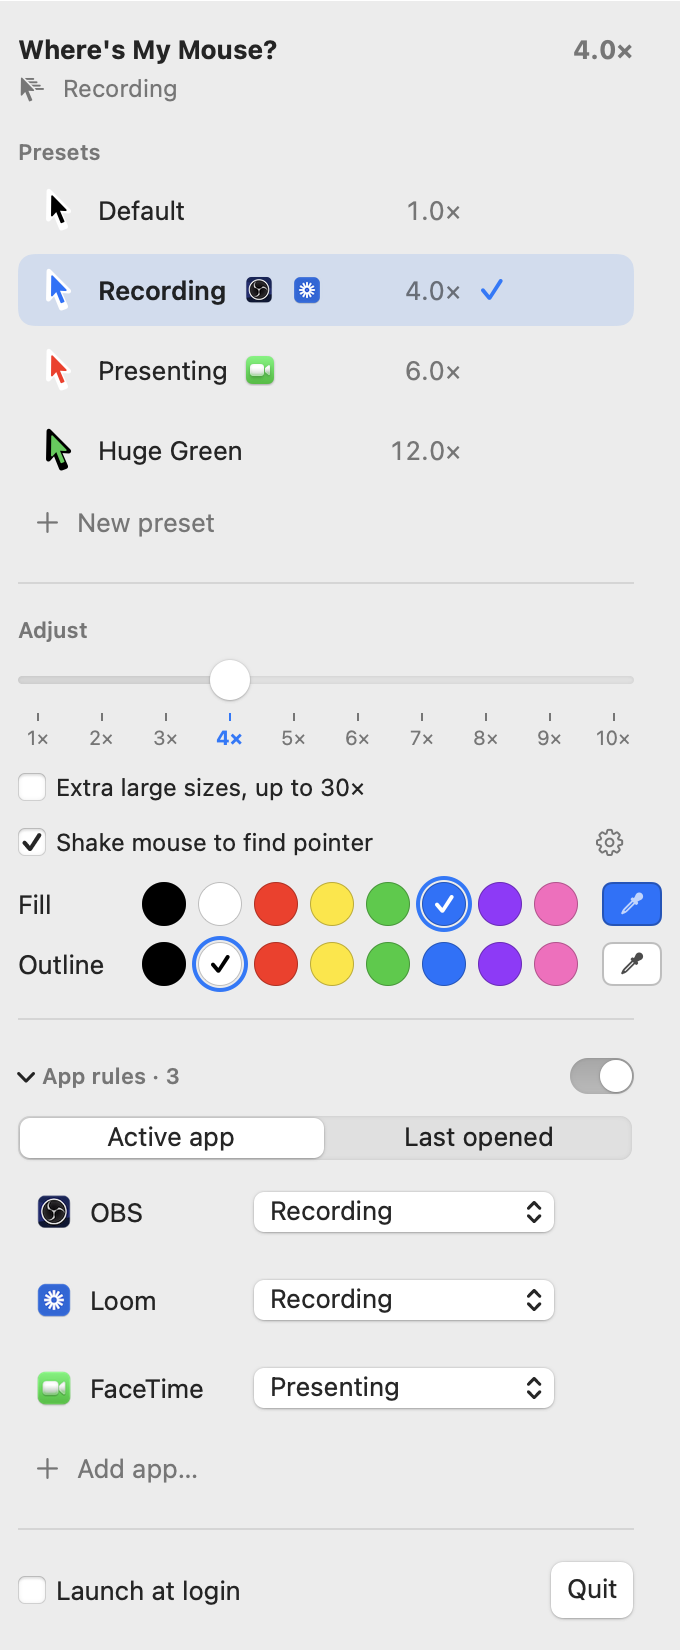
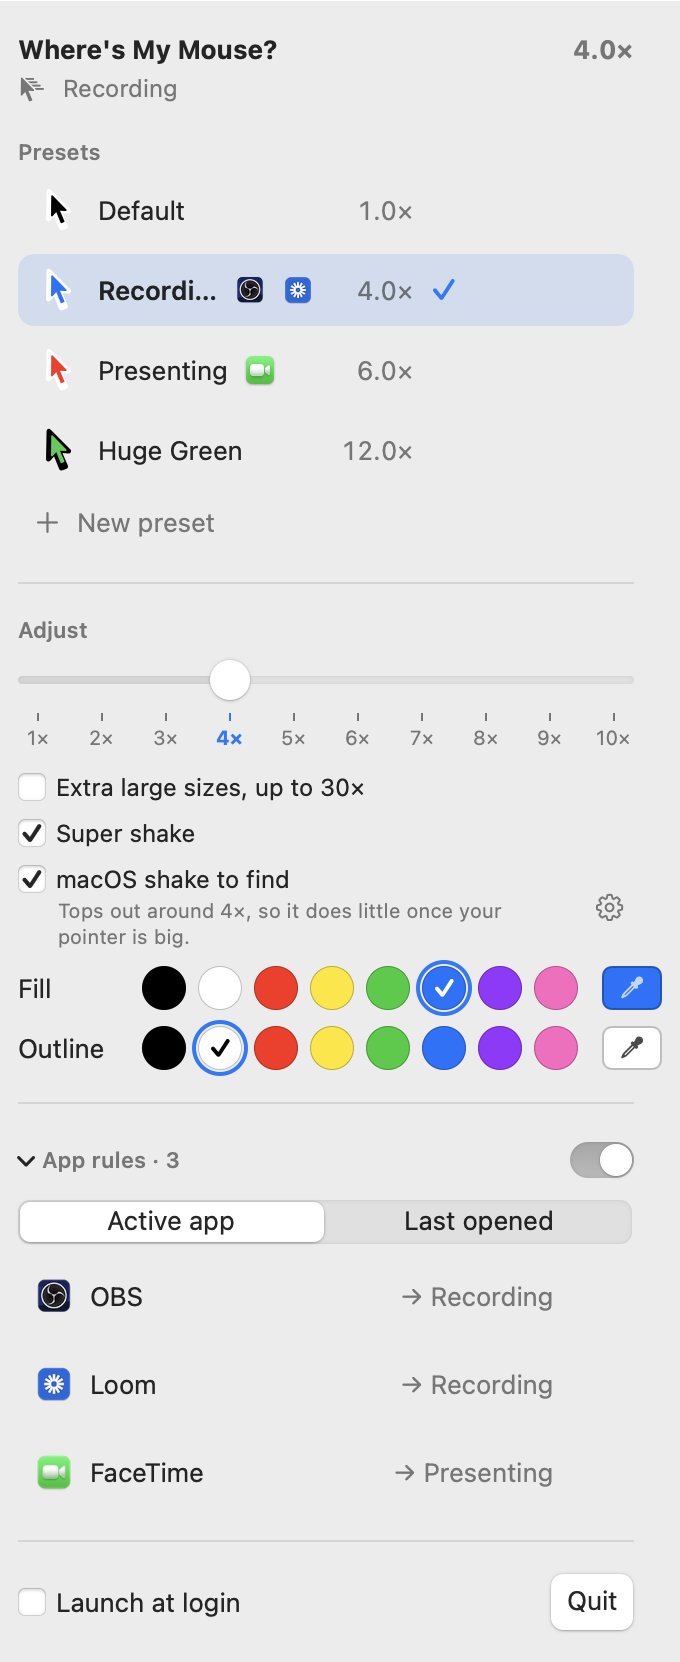
Super shake: shake the mouse to briefly triple the pointer, at any size
- Polls the pointer (no permissions), 4 quick reversals = a shake
- Grows to 3x (10x-30x), holds while shaking, eases back; never saved
- Hint on macOS shake: it tops out around 4x
- Site and README: Super shake card, 'macOS's shake tops out at 4x'

diff --git a/Sources/SuperShake.swift b/Sources/SuperShake.swift
@@ -1,0 +1,137 @@
+import AppKit
+
+/// Watches the mouse for a quick side-to-side shake. Polls the pointer position, so it
+/// needs no permissions and sees movement over every app.
+final class ShakeDetector {
+    private var timer: Timer?
+    private var samples: [(time: TimeInterval, x: CGFloat)] = []
+    private var lastShake: TimeInterval = 0
+    private let onShake: () -> Void
+
+    // A shake: at least 4 direction changes within 0.6s, each leg at least 30pt.
+    private let window: TimeInterval = 0.6
+    private let minReversals = 4
+    private let minLeg: CGFloat = 30
+
+    init(onShake: @escaping () -> Void) {
+        self.onShake = onShake
+    }
+
+    func start() {
+        guard timer == nil else { return }
+        let timer = Timer(timeInterval: 1.0 / 60, repeats: true) { [weak self] _ in self?.sample() }
+        RunLoop.main.add(timer, forMode: .common)
+        self.timer = timer
+    }
+
+    func stop() {
+        timer?.invalidate()
+        timer = nil
+        samples.removeAll()
+    }
+
+    private func sample() {
+        let now = ProcessInfo.processInfo.systemUptime
+        samples.append((now, NSEvent.mouseLocation.x))
+        samples.removeAll { now - $0.time > window }
+        guard samples.count > 4 else { return }
+
+        // Collapse the path into legs between direction changes and count the long ones.
+        var reversals = 0
+        var legStart = samples[0].x
+        var direction: CGFloat = 0
+        for i in 1..<samples.count {
+            let dx = samples[i].x - samples[i - 1].x
+            guard abs(dx) > 0.5 else { continue }
+            let d: CGFloat = dx > 0 ? 1 : -1
+            if direction != 0, d != direction {
+                if abs(samples[i - 1].x - legStart) >= minLeg { reversals += 1 }
+                legStart = samples[i - 1].x
+            }
+            direction = d
+        }
+        if reversals >= minReversals {
+            lastShake = now
+            samples.removeAll()
+            onShake()
+        }
+    }
+}
+
+/// Super shake: briefly grows the pointer to 3× its size (at least 10×, at most 30×),
+/// holds while the shaking continues, then eases back. Never saves the boosted size.
+final class SuperShake {
+    private let detector: ShakeDetector
+    private var animation: Timer?
+    private var baseSize: Double = 1
+    private var peak: Double = 1
+    private var phaseStart: TimeInterval = 0
+    private var holdUntil: TimeInterval = 0
+    private(set) var isBoosting = false
+
+    private let growTime = 0.12
+    private let holdTime = 0.9
+    private let shrinkTime = 0.4
+
+    init(currentSize: @escaping () -> Double) {
+        var boost: (() -> Void)?
+        detector = ShakeDetector { boost?() }
+        boost = { [weak self] in self?.boost(from: currentSize()) }
+    }
+
+    func setEnabled(_ on: Bool) {
+        if on { detector.start() } else { detector.stop(); finish() }
+    }
+
+    private func boost(from size: Double) {
+        let now = ProcessInfo.processInfo.systemUptime
+        if isBoosting {
+            holdUntil = now + holdTime // still shaking: keep it big
+            return
+        }
+        isBoosting = true
+        baseSize = size
+        peak = min(CursorController.extendedMaxSize, max(size * 3, 10))
+        phaseStart = now
+        holdUntil = now + growTime + holdTime
+        let timer = Timer(timeInterval: 1.0 / 60, repeats: true) { [weak self] _ in self?.step() }
+        RunLoop.main.add(timer, forMode: .common)
+        animation = timer
+    }
+
+    private func step() {
+        let now = ProcessInfo.processInfo.systemUptime
+        let size: Double
+        if now < phaseStart + growTime {
+            size = baseSize + (peak - baseSize) * ease((now - phaseStart) / growTime)
+        } else if now < holdUntil {
+            size = peak
+        } else if now < holdUntil + shrinkTime {
+            size = peak + (baseSize - peak) * ease((now - holdUntil) / shrinkTime)
+        } else {
+            finish()
+            return
+        }
+        CursorController.setSize(size, persist: false)
+    }
+
+    /// Stops without restoring, e.g. when the user picks a new size mid-boost.
+    func cancel() {
+        animation?.invalidate()
+        animation = nil
+        isBoosting = false
+    }
+
+    private func finish() {
+        animation?.invalidate()
+        animation = nil
+        if isBoosting { CursorController.setSize(baseSize, persist: false) }
+        isBoosting = false
+    }
+
+    /// Smooth start and end (ease in-out cubic).
+    private func ease(_ t: Double) -> Double {
+        let t = min(max(t, 0), 1)
+        return t < 0.5 ? 4 * t * t * t : 1 - pow(-2 * t + 2, 3) / 2
+    }
+}

diff --git a/site/index.html b/site/index.html
@@ -379,7 +379,7 @@
             <img src="assets/favicon.png" alt="" width="16" height="16"> Settings <span aria-hidden="true">▾</span>
           </button>
           <div class="settings-pop" id="settings-pop" hidden>
-            <img src="assets/menu-dark.png" width="340" height="825" alt="The Where's My Mouse? menu: presets with pinned apps, size slider, colors, and app rules">
+            <img src="assets/menu-dark.png" width="340" height="831" alt="The Where's My Mouse? menu: presets with pinned apps, size slider, colors, and app rules">
             <p>That's the whole app. It lives in your menu bar.</p>
           </div>
         </div>
@@ -432,6 +432,7 @@
     <div>
       <h2>Nobody can find it.<br>Not even you.</h2>
       <p class="lead">Everyone says “just shake it.” And sure, shake your mouse and the pointer briefly balloons so you can spot it. Then it shrinks right back, and you're hunting again.</p>
+      <p class="lead"><b>macOS's shake tops out at 4×. Where's My Mouse? starts there.</b></p>
       <p class="lead">What if you never had to shake it to find it? Where's My Mouse? keeps your pointer big all the time: <b>15× for real</b>, or <b>30×</b> with a pointer it draws itself, in a color nobody can miss. It shows up in your screen recordings too (tested in OBS).</p>
     </div>
     <div class="bubbles" aria-hidden="true">
@@ -523,10 +524,10 @@
     <div class="grid">
       <div class="card"><div class="ico">📏</div><h3>Up to 30×</h3><p>1–10× on the slider, 15× with the real pointer, and up to 30× when you need it seen from space.</p></div>
       <div class="card"><div class="ico">🎨</div><h3>Any fill, any outline</h3><p>Hot pink with a black edge? Yellow on white? Pick a swatch or any color you like.</p></div>
-      <div class="card"><div class="ico">⚡</div><h3>Live, no Settings</h3><p>Changes apply instantly from the menu bar. No digging through Accessibility.</p></div>
+      <div class="card"><div class="ico">⚡</div><h3>Live, from the menu bar</h3><p>Changes apply instantly. No Dock icon, no digging through Accessibility.</p></div>
       <div class="card"><div class="ico">💾</div><h3>Presets</h3><p>Save "Recording", "Presenting", "Big Green". Switch in one click, update them anytime.</p></div>
       <div class="card"><div class="ico">🤖</div><h3>App rules</h3><p>Pin a preset to an app: OBS goes blue, Loom goes orange. Follows the active app or the last one you opened.</p></div>
-      <div class="card"><div class="ico">🫥</div><h3>Menu bar only</h3><p>No Dock icon, launches at login, stays out of your way until you need it.</p></div>
+      <div class="card"><div class="ico">🫨</div><h3>Super shake</h3><p>Still lost? Shake the mouse and your pointer briefly triples in size, up to 30×. Works even when it's already big.</p></div>
     </div>
   </div>
 </section>

diff --git a/Sources/PointerStore.swift b/Sources/PointerStore.swift
@@ -11,6 +11,9 @@ final class PointerStore: ObservableObject {
     @Published private(set) var hasFullDiskAccess = CursorController.hasFullDiskAccess
     @Published private(set) var launchAtLogin = SMAppService.mainApp.status == .enabled
     @Published private(set) var shakeToLocate = CursorController.shakeToLocate
+    /// Our own shake-to-find: briefly grows the pointer at any size.
+    @Published private(set) var superShakeEnabled = UserDefaults.standard.object(forKey: superShakeKey) as? Bool ?? true
+    private var superShake: SuperShake?
     /// The custom preset being edited, if any.
     @Published var editingPresetID: UUID?
     /// The preset last picked from the list (or by an app rule).
@@ -24,6 +27,7 @@ final class PointerStore: ObservableObject {
 
     private static let presetsKey = "customPresets"
     private static let sizeKey = "size"
+    private static let superShakeKey = "superShake"
     private static let extendedSizesKey = "extendedSizes"
     private static let appRulesKey = "appRules"
     private static let appRulesEnabledKey = "appRulesEnabled"
@@ -57,6 +61,9 @@ final class PointerStore: ObservableObject {
         if !extendedSizes, size > CursorController.standardMaxSize { extendedSizes = true }
         loadAppRules()
         observeRunningApps()
+        let shake = SuperShake { [weak self] in self?.size ?? 1 }
+        shake.setEnabled(superShakeEnabled)
+        superShake = shake
     }
 
     /// A store showing `preset` as the current pointer, for rendering screenshots.
@@ -81,7 +88,7 @@ final class PointerStore: ObservableObject {
 
     /// Re-reads system state, e.g. after the user changed it in System Settings.
     func refresh() {
-        guard !isSnapshot else { return }
+        guard !isSnapshot, superShake?.isBoosting != true else { return }
         size = CursorController.size
         fill = CursorController.fill ?? fill
         outline = CursorController.outline ?? outline
@@ -93,6 +100,7 @@ final class PointerStore: ObservableObject {
     // MARK: Live adjustments
 
     func setSize(_ newSize: Double) {
+        superShake?.cancel()
         size = newSize
         syncEditingPreset()
         CursorController.setSize(newSize, persist: false)
@@ -404,6 +412,12 @@ final class PointerStore: ObservableObject {
     }
 
     // MARK: Shake to locate
+
+    func setSuperShake(_ on: Bool) {
+        superShakeEnabled = on
+        UserDefaults.standard.set(on, forKey: Self.superShakeKey)
+        superShake?.setEnabled(on)
+    }
 
     func setShakeToLocate(_ on: Bool) {
         CursorController.setShakeToLocate(on)

diff --git a/Sources/MenuView.swift b/Sources/MenuView.swift
@@ -124,10 +124,19 @@ struct MenuView: View {
             SizeSlider(size: Binding(get: { store.size }, set: { store.setSize($0) }), maxSize: store.maxSize)
             Toggle("Extra large sizes, up to 30×", isOn: Binding(get: { store.extendedSizes }, set: { store.setExtendedSizes($0) }))
                 .font(.callout)
+            Toggle("Super shake", isOn: Binding(get: { store.superShakeEnabled }, set: { store.setSuperShake($0) }))
+                .font(.callout)
+                .help("Shake the mouse and your pointer briefly grows to 3× its size (up to 30×), at any size.")
             HStack {
-                Toggle("Shake mouse to find pointer", isOn: Binding(get: { store.shakeToLocate }, set: { store.setShakeToLocate($0) }))
-                    .font(.callout)
-                    .help("macOS's own trick: shake the mouse and the pointer briefly grows. Same switch as in Accessibility → Display.")
+                VStack(alignment: .leading, spacing: 2) {
+                    Toggle("macOS shake to find", isOn: Binding(get: { store.shakeToLocate }, set: { store.setShakeToLocate($0) }))
+                        .font(.callout)
+                    Text("Tops out around 4×, so it does little once your pointer is big.")
+                        .font(.caption)
+                        .foregroundStyle(.secondary)
+                        .padding(.leading, 20)
+                }
+                .help("macOS's own shake-to-locate. Same switch as in Accessibility → Display.")
                 Spacer()
                 Button { CursorController.openPointerSettings() } label: {
                     Image(systemName: "gearshape").frame(width: 24, height: 24).contentShape(Rectangle())

diff --git a/scripts/make_social.swift b/scripts/make_social.swift
@@ -65,7 +65,7 @@ ctx.restoreGState()
 srgb(1, 1, 1, 0.12).setStroke(); clip.lineWidth = 1.5; clip.stroke()
 
 // Big pointer in the "Recording" preset's colors, tapping its row
-let rowY = menuRect.maxY - menuH * (290.0 / 1650.0)
+let rowY = menuRect.maxY - menuH * (290.0 / 1662.0)
 pointer(tip: CGPoint(x: menuRect.minX + menuW * 0.72, y: rowY - 4), height: 170, fill: srgb(0, 0.45, 1), outline: .white)
 
 NSGraphicsContext.restoreGraphicsState()

diff --git a/README.md b/README.md
@@ -20,6 +20,7 @@ A native macOS menu bar app for managing pointer size and color, for when you (o
 - **Fill and outline colors**: quick swatches, or any color from the color picker.
 - **Presets**: starts with just Default; save the current pointer as your own (e.g. a big blue one for recording), then rename, update, or delete it.
 - **App rules**: add apps to a preset with its ＋ button (e.g. OBS and Loom → a big blue "Recording" preset). While one of those apps is in use, the pointer switches to that preset; an app can only belong to one preset, and moving it asks first. Follow the active app or the last one opened; with none open, it's back to Default.
+- **Super shake**: shake the mouse and the pointer briefly grows to 3× its size (at least 10×, up to 30×), at any size. macOS's own shake-to-locate tops out around 4×; there's a switch for that too.
 - **Launch at login**: and sizes above 4× are re-applied when the app starts.
 
 <img src="docs/menu-dark.png" width="300" alt="The Where's My Mouse? menu">
